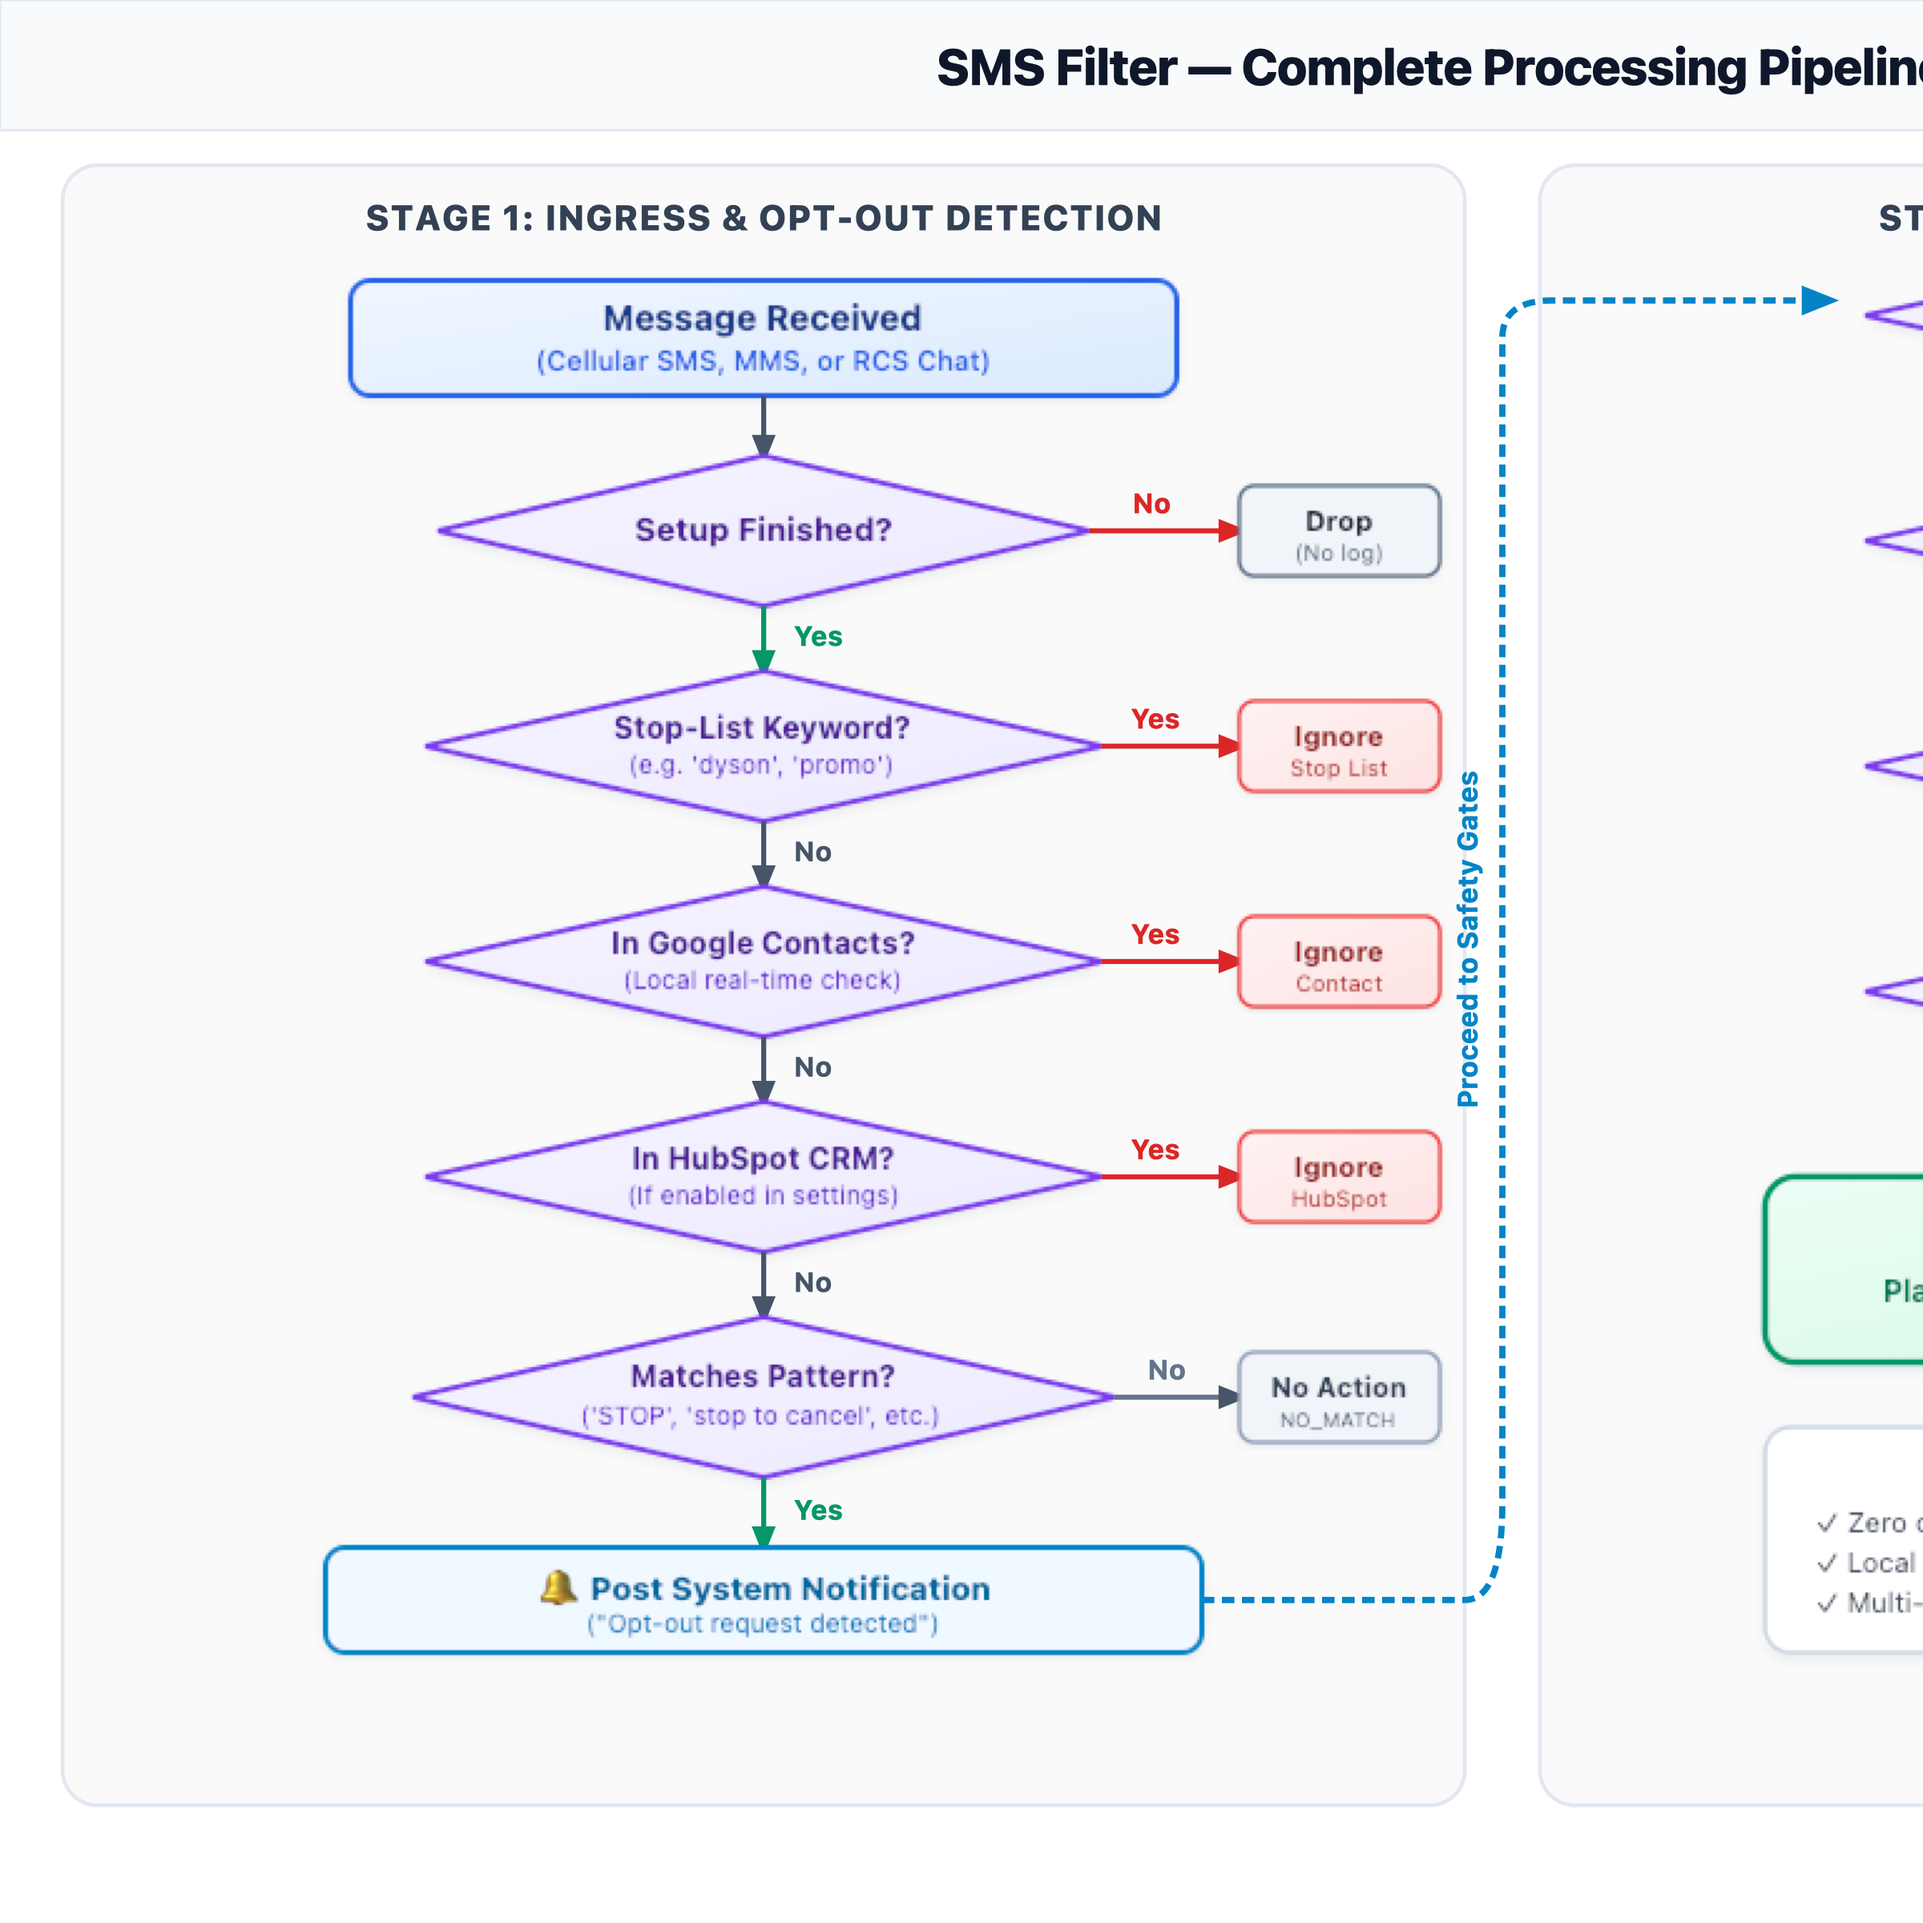
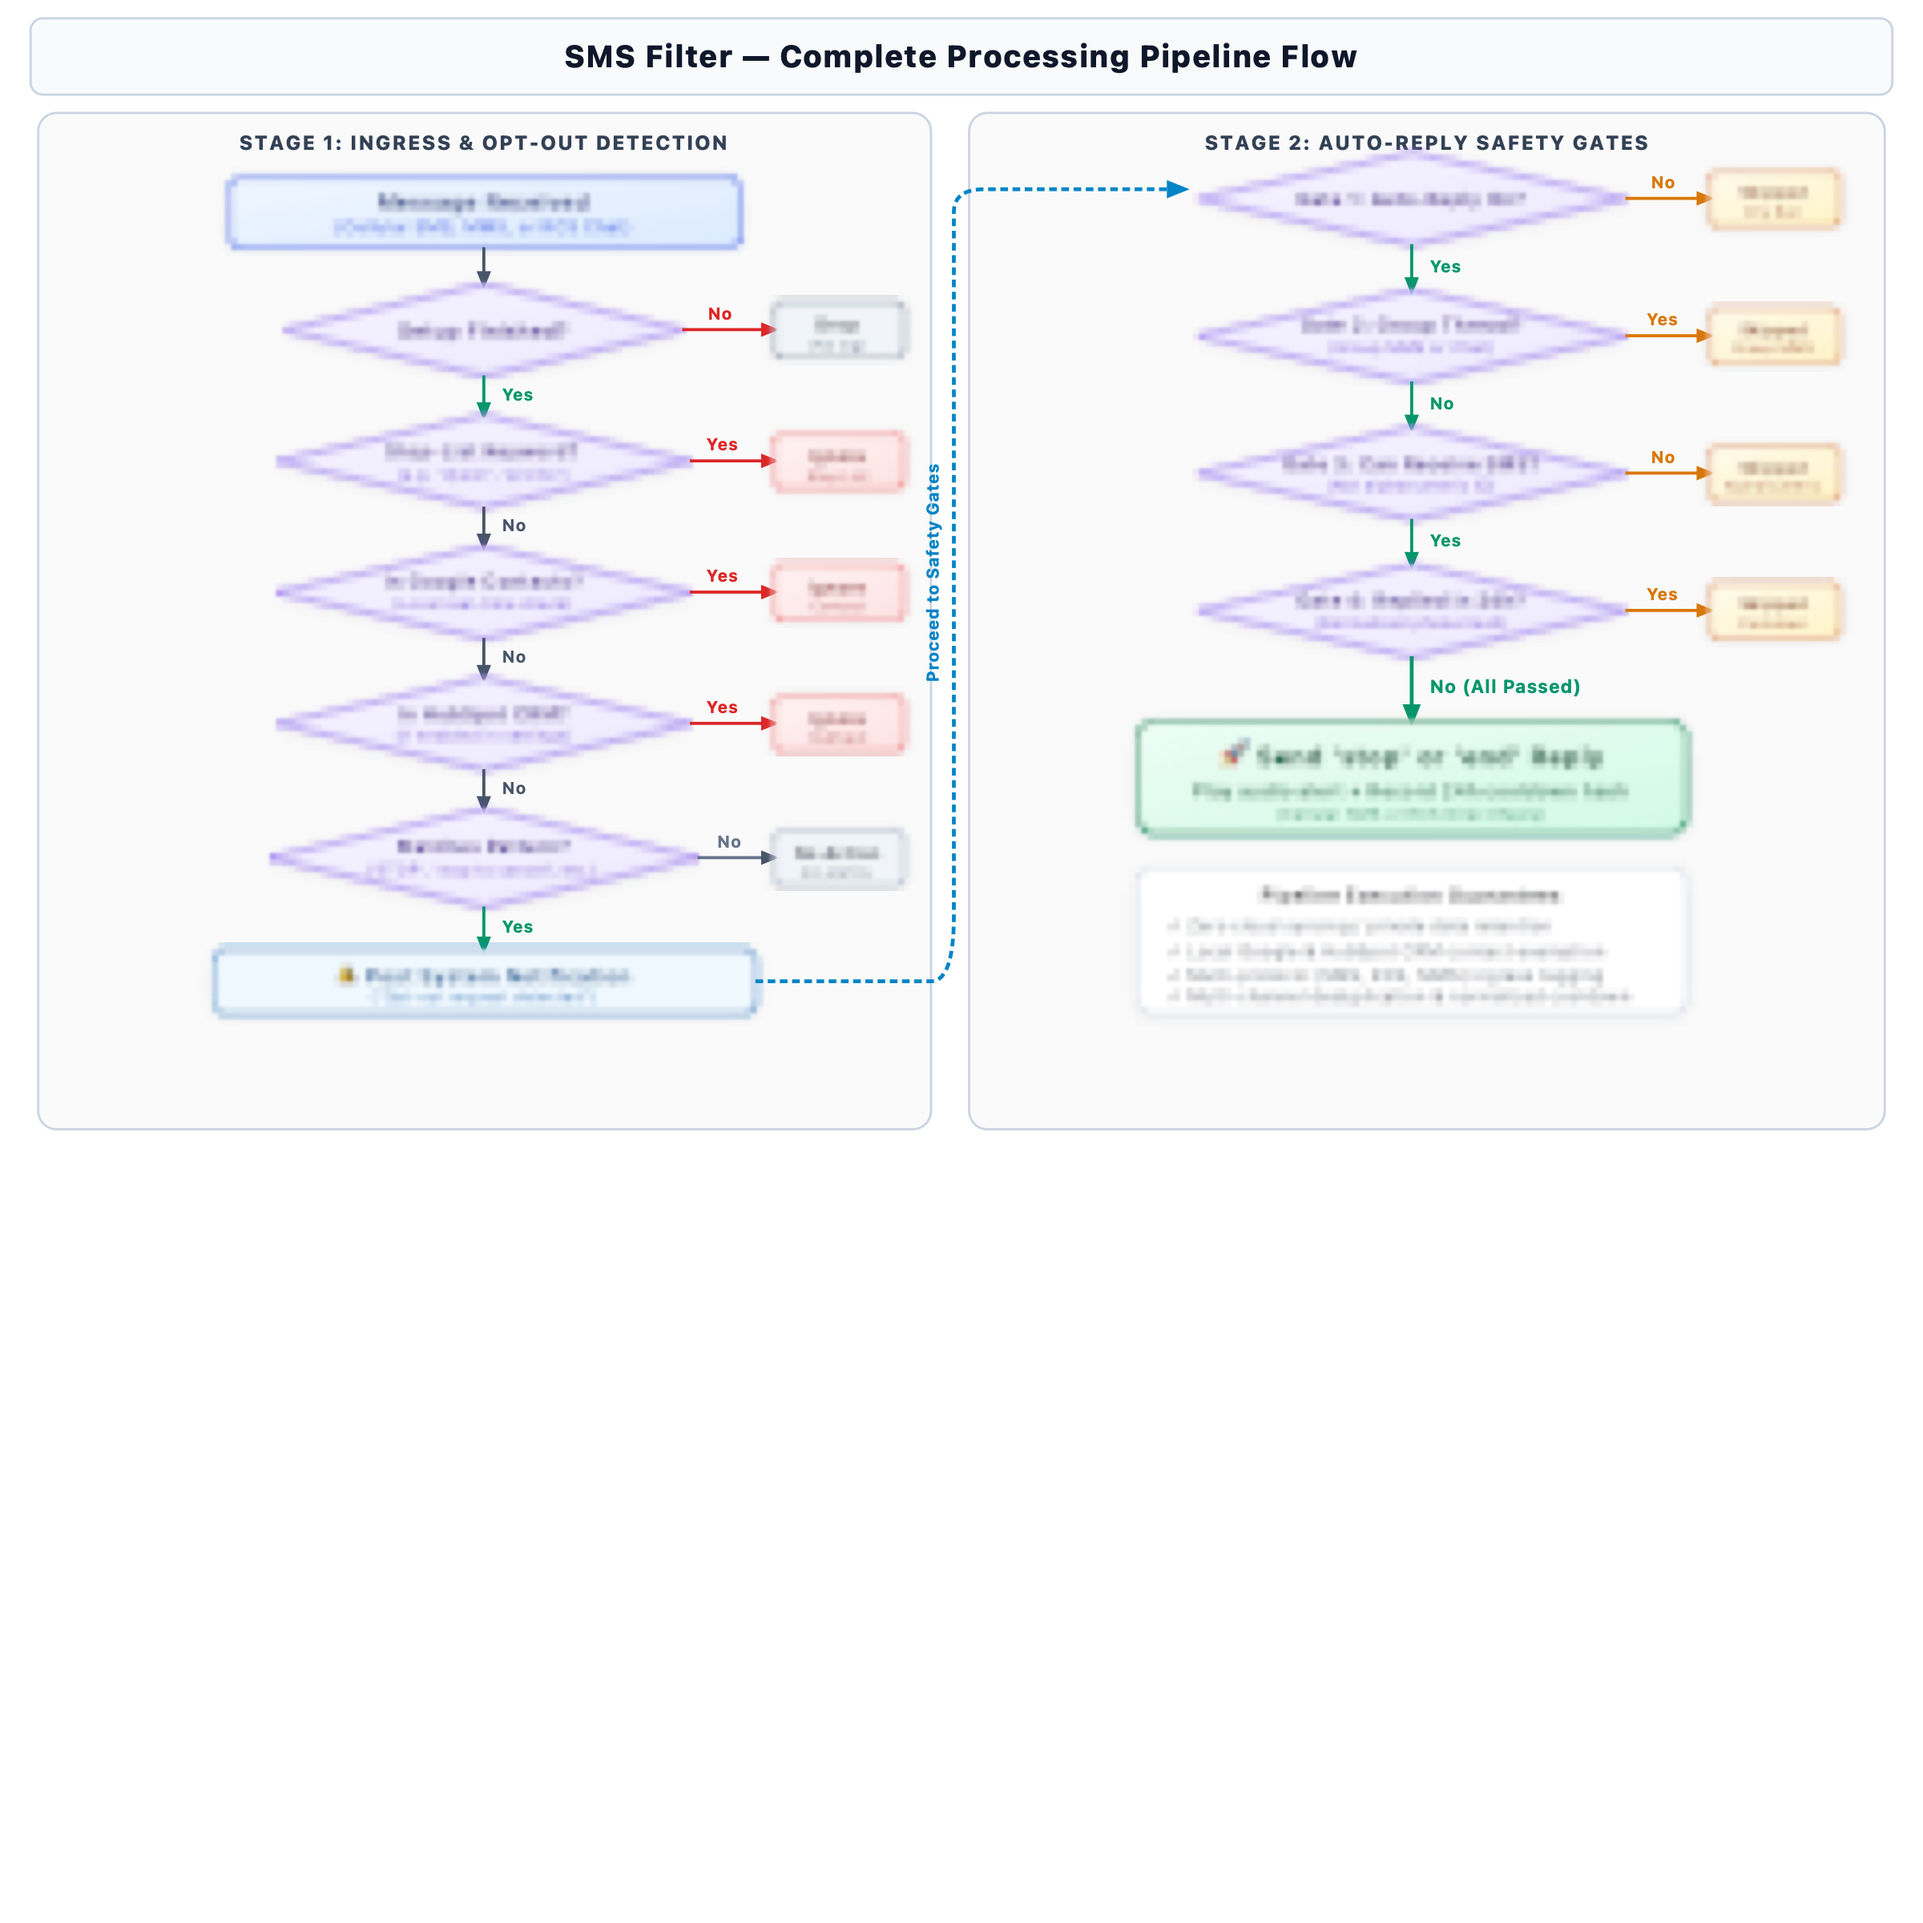
docs: add generous margins and responsive width=100% to pipeline_flow image

diff --git a/USER_GUIDE.md b/USER_GUIDE.md
@@ -83,7 +83,7 @@ enabled a tone also plays, but only when a reply was actually sent.
 Checks run in a fixed order, cheapest first, so an ignored message costs no contact
 lookups and no network calls.
 
-![SMS Filter Pipeline Architecture](pipeline_flow.png)
+<img src="pipeline_flow.png" alt="SMS Filter Pipeline Architecture" width="100%" />
 
 <details>
 <summary>View Mermaid Source Code</summary>

diff --git a/README.md b/README.md
@@ -12,7 +12,7 @@ Marketing and automated SMS/RCS messages often carry an opt-out instruction, but
 
 An incoming message is evaluated in a fixed order, and the order is load-bearing:
 
-![SMS Filter Architecture Pipeline](pipeline_flow.png)
+<img src="pipeline_flow.png" alt="SMS Filter Architecture Pipeline" width="100%" />
 
 <details>
 <summary>View Diagram Definition</summary>
